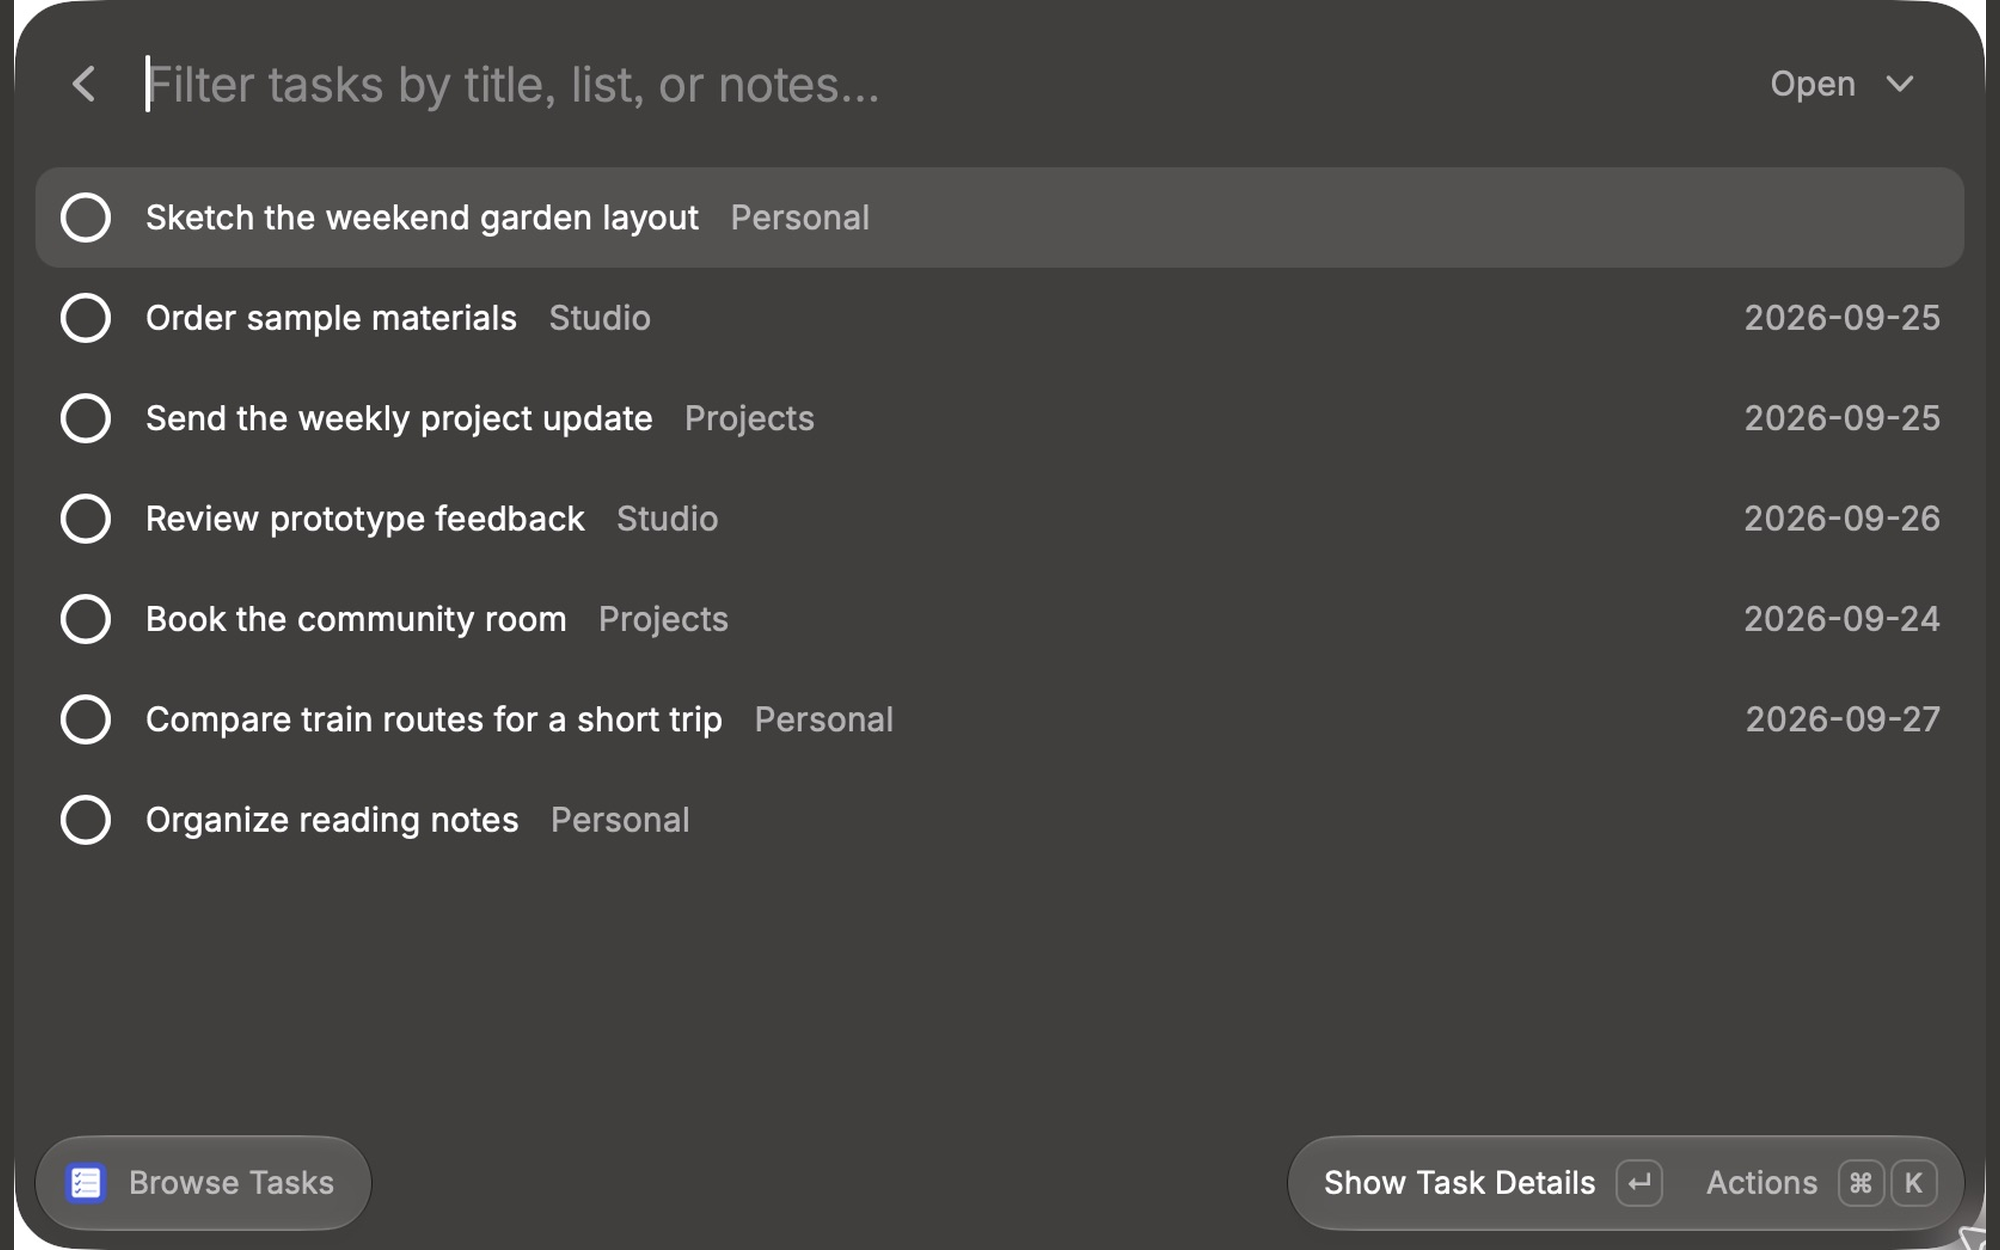
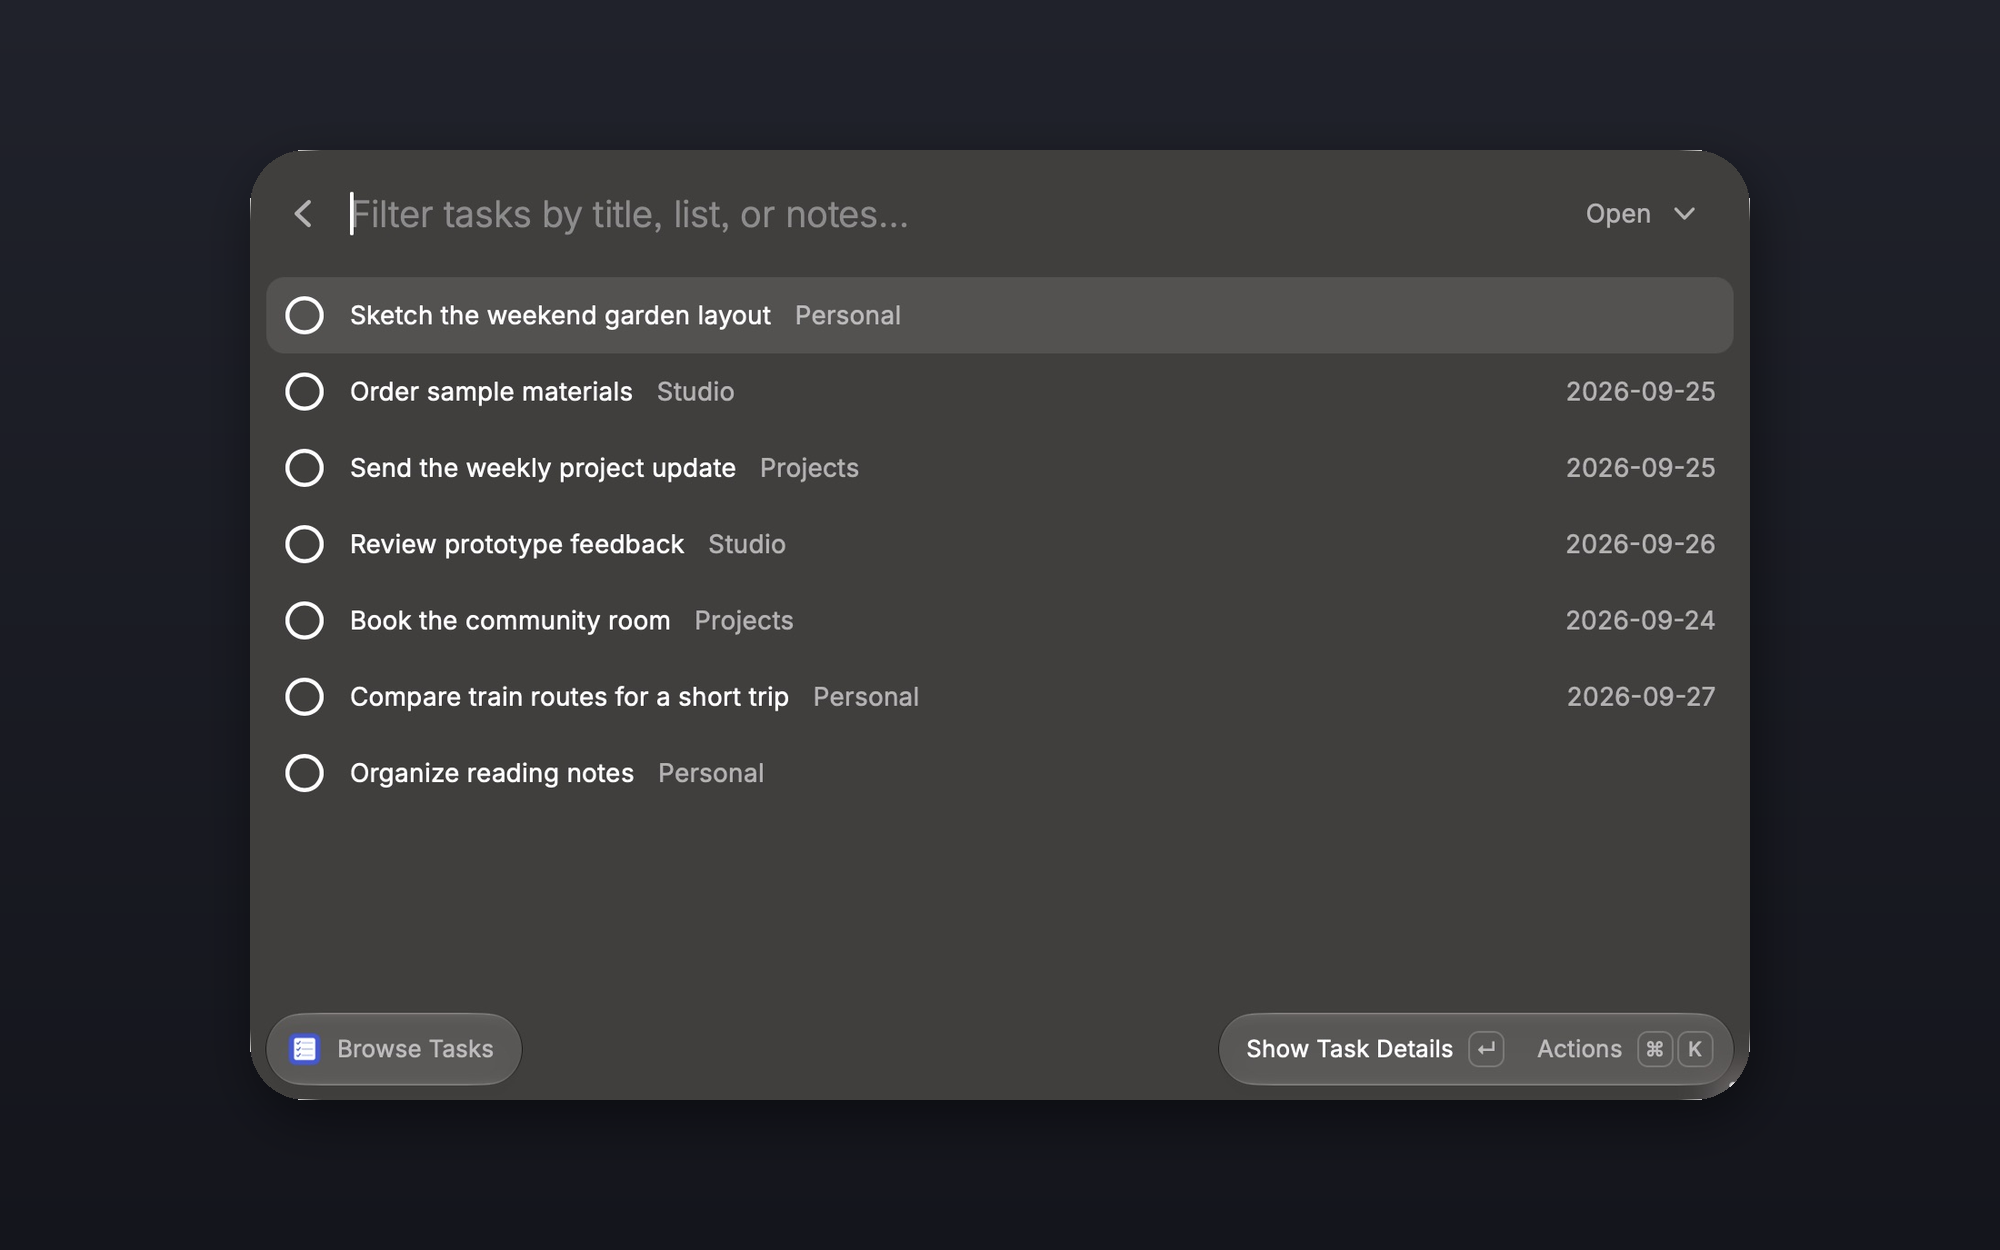
docs: add Raycast Store changelog (#60)
* docs: add Raycast Store changelog

* docs: frame Raycast Store screenshots

diff --git a/raycast/ms-todo/CHANGELOG.md b/raycast/ms-todo/CHANGELOG.md
@@ -1,0 +1,7 @@
+# Microsoft To Do via ms-todo Changelog
+
+## [Initial Release] - 2026-09-25
+
+- Capture tasks through the local ms-todo CLI.
+- Fuzzy search and browse cached tasks, smart views, and lists.
+- View task details, edit task fields, complete or reopen tasks, and manage My Day.
